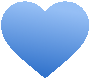
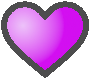
V3

diff --git a/src/RootViewControllerPlaylist.mm b/src/RootViewControllerPlaylist.mm
@@ -5,6 +5,7 @@
 //  Created by Yohann Magnien on 04/06/10.
 //  Copyright __YoyoFR / Yohann Magnien__ 2010. All rights reserved.
 //
+#define RATING_IMG(a) ( (a==5?2:(a?1:0)) )
 
 #define PRI_SEC_ACTIONS_IMAGE_SIZE 40
 #define ROW_HEIGHT 40
@@ -431,8 +432,8 @@ int qsort_ComparePlaylistEntriesRev(const void *entryA, const void *entryB) {
 	mShowSubdir=0;
 	
     ratingImg[0] = @"heart-empty.png";
-    ratingImg[1] = @"heart-filled.png"; //rating5.png";
-	
+    ratingImg[1] = @"heart-half-filled.png";
+    ratingImg[2] = @"heart-filled.png";
 	/* Init popup view*/
 	/**/
 	
@@ -1897,7 +1898,7 @@ int qsort_ComparePlaylistEntriesRev(const void *entryA, const void *entryB) {
         if (err==SQLITE_OK){
         } else NSLog(@"ErrSQL : %d",err);
         
-            sprintf(sqlStatement,"SELECT name,fullpath,rating,play_count,length,channels,songs FROM user_stats WHERE rating>0 ORDER BY rating DESC,name");
+            sprintf(sqlStatement,"SELECT name,fullpath,rating,play_count,length,channels,songs FROM user_stats WHERE rating=5 ORDER BY rating DESC,name");
             err=sqlite3_prepare_v2(db, sqlStatement, -1, &stmt, NULL);
             if (err==SQLITE_OK){
                 while (sqlite3_step(stmt) == SQLITE_ROW) {
@@ -2536,7 +2537,7 @@ int qsort_ComparePlaylistEntriesRev(const void *entryA, const void *entryB) {
                     }
                 }
 
-                if (playlist->entries[row-2].ratings>0) bottomImageView.image=[UIImage imageNamed:ratingImg[(playlist->entries[row-2].ratings?1:0)]];
+                if (playlist->entries[row-2].ratings>0) bottomImageView.image=[UIImage imageNamed:ratingImg[RATING_IMG(playlist->entries[row-2].ratings)]];
                 NSArray *filename_parts=[playlist->entries[row-2].fullpath componentsSeparatedByString:@"/"];
                 
                 NSString *tmp_str;
@@ -2580,8 +2581,6 @@ int qsort_ComparePlaylistEntriesRev(const void *entryA, const void *entryB) {
                                            0,
                                            tabView.bounds.size.width -1.0 * cell.indentationWidth- 32-PRI_SEC_ACTIONS_IMAGE_SIZE-4-PRI_SEC_ACTIONS_IMAGE_SIZE,
                                            22);
-                
-                
                 
                 [secActionView setImage:[UIImage imageNamed:@"playlist_add_all.png"] forState:UIControlStateNormal];
                 [secActionView setImage:[UIImage imageNamed:@"playlist_add_all.png"] forState:UIControlStateHighlighted];
@@ -2644,7 +2643,7 @@ int qsort_ComparePlaylistEntriesRev(const void *entryA, const void *entryB) {
                                                     &cur_local_entries[indexPath.section-2][indexPath.row].playcount,
                                                     &cur_local_entries[indexPath.section-2][indexPath.row].rating);
                     }
-                    if (cur_local_entries[indexPath.section-2][indexPath.row].rating>0) bottomImageView.image=[UIImage imageNamed:ratingImg[(cur_local_entries[indexPath.section-2][indexPath.row].rating?1:0)]];
+                    if (cur_local_entries[indexPath.section-2][indexPath.row].rating>0) bottomImageView.image=[UIImage imageNamed:ratingImg[RATING_IMG(cur_local_entries[indexPath.section-2][indexPath.row].rating)]];
                     tmp_str = [NSString stringWithFormat:@"Pl:%d",cur_local_entries[indexPath.section-2][indexPath.row].playcount];
                     
                     bottomLabel.frame = CGRectMake( 1.0 * cell.indentationWidth+20,

diff --git a/src/RootViewControllerASMA.mm b/src/RootViewControllerASMA.mm
@@ -6,6 +6,9 @@
 //  Copyright __YoyoFR / Yohann Magnien__ 2010. All rights reserved.
 //
 
+#define RATING_IMG(a) ( (a==5?2:(a?1:0)) )
+
+
 #define GET_NB_ENTRIES 1
 //#define NB_ASMA_ENTRIES 4630
 
@@ -170,7 +173,8 @@ extern volatile t_settings settings[MAX_SETTINGS];
     mFileMngr=[[NSFileManager alloc] init];
     
     ratingImg[0] = @"heart-empty.png";
-    ratingImg[1] = @"heart-filled.png"; //rating5.png";
+    ratingImg[1] = @"heart-half-filled.png";
+    ratingImg[2] = @"heart-filled.png";
     
     /* Init popup view*/
     /**/
@@ -1403,7 +1407,7 @@ extern volatile t_settings settings[MAX_SETTINGS];
                                                     &cur_db_entries[section][indexPath.row].channels_nb,
                                                     &cur_db_entries[section][indexPath.row].songs);
                     }
-                    if (cur_db_entries[section][indexPath.row].rating>0) bottomImageView.image=[UIImage imageNamed:ratingImg[(cur_db_entries[section][indexPath.row].rating?1:0)]];
+                    if (cur_db_entries[section][indexPath.row].rating>0) bottomImageView.image=[UIImage imageNamed:ratingImg[RATING_IMG(cur_db_entries[section][indexPath.row].rating)]];
                     
                     /*if (!cur_db_entries[section][indexPath.row].playcount) bottomLabel.text = [NSString stringWithString:played0time];
                      else if (cur_db_entries[section][indexPath.row].playcount==1) bottomLabel.text = [NSString stringWithString:played1time];

diff --git a/src/RootViewControllerHVSC.mm b/src/RootViewControllerHVSC.mm
@@ -5,6 +5,7 @@
 //  Created by Yohann Magnien on 04/06/10.
 //  Copyright __YoyoFR / Yohann Magnien__ 2010. All rights reserved.
 //
+#define RATING_IMG(a) ( (a==5?2:(a?1:0)) )
 
 #define GET_NB_ENTRIES 1
 #define NB_HVSC_ENTRIES 43856
@@ -174,7 +175,8 @@ extern volatile t_settings settings[MAX_SETTINGS];
 	
 	
     ratingImg[0] = @"heart-empty.png";
-    ratingImg[1] = @"heart-filled.png"; //rating5.png";
+    ratingImg[1] = @"heart-half-filled.png";
+    ratingImg[2] = @"heart-filled.png";
 	
 	/* Init popup view*/
 	/**/
@@ -1662,7 +1664,7 @@ extern volatile t_settings settings[MAX_SETTINGS];
                                                     &cur_db_entries[section][indexPath.row].channels_nb,
                                                     &cur_db_entries[section][indexPath.row].songs);
                     }
-                    if (cur_db_entries[section][indexPath.row].rating>0) bottomImageView.image=[UIImage imageNamed:ratingImg[(cur_db_entries[section][indexPath.row].rating?1:0)]];
+                    if (cur_db_entries[section][indexPath.row].rating>0) bottomImageView.image=[UIImage imageNamed:ratingImg[RATING_IMG(cur_db_entries[section][indexPath.row].rating)]];
                     
                     /*if (!cur_db_entries[section][indexPath.row].playcount) bottomLabel.text = [NSString stringWithString:played0time]; 
                      else if (cur_db_entries[section][indexPath.row].playcount==1) bottomLabel.text = [NSString stringWithString:played1time];

diff --git a/src/RootViewControllerMODLAND.mm b/src/RootViewControllerMODLAND.mm
@@ -5,6 +5,7 @@
 //  Created by Yohann Magnien on 04/06/10.
 //  Copyright __YoyoFR / Yohann Magnien__ 2010. All rights reserved.
 //
+#define RATING_IMG(a) ( (a==5?2:(a?1:0)) )
 
 #define GET_NB_ENTRIES 1
 
@@ -165,8 +166,8 @@ extern volatile t_settings settings[MAX_SETTINGS];
     mFileMngr=[[NSFileManager alloc] init];
 	
     ratingImg[0] = @"heart-empty.png";
-    ratingImg[1] = @"heart-filled.png"; //rating5.png";
-	
+    ratingImg[1] = @"heart-half-filled.png";
+    ratingImg[2] = @"heart-filled.png";
 	/* Init popup view*/
 	/**/
 	
@@ -2154,7 +2155,7 @@ extern volatile t_settings settings[MAX_SETTINGS];
                                                         &cur_db_entries[section][indexPath.row].songs);
                             
                         }
-                        if (cur_db_entries[section][indexPath.row].rating>0) bottomImageView.image=[UIImage imageNamed:ratingImg[(cur_db_entries[section][indexPath.row].rating?1:0)]];
+                        if (cur_db_entries[section][indexPath.row].rating>0) bottomImageView.image=[UIImage imageNamed:ratingImg[RATING_IMG(cur_db_entries[section][indexPath.row].rating)]];
                         
                         /*if (!cur_db_entries[section][indexPath.row].playcount) bottomLabel.text = [NSString stringWithString:played0time]; 
                          else if (cur_db_entries[section][indexPath.row].playcount==1) bottomLabel.text = [NSString stringWithString:played1time];

diff --git a/src/RootViewControllerLocalBrowser.mm b/src/RootViewControllerLocalBrowser.mm
@@ -6,6 +6,8 @@
 //  Copyright __YoyoFR / Yohann Magnien__ 2010. All rights reserved.
 //
 
+#define RATING_IMG(a) ( (a==5?2:(a?1:0)) )
+
 #define PRI_SEC_ACTIONS_IMAGE_SIZE 40
 #define LIMITED_LIST_SIZE 1024
 
@@ -521,7 +523,8 @@ int do_extract(unzFile uf,char *pathToExtract,NSString *pathBase);
     mShowSubdir=0;
     
     ratingImg[0] = @"heart-empty.png";
-    ratingImg[1] = @"heart-filled.png"; //rating5.png";
+    ratingImg[1] = @"heart-half-filled.png";
+    ratingImg[2] = @"heart-filled.png";
     
     //self.tableView.pagingEnabled;
     self.view.autoresizingMask = UIViewAutoresizingFlexibleWidth | UIViewAutoresizingFlexibleHeight;
@@ -2972,7 +2975,7 @@ static int shouldRestart=1;
                                             &cur_local_entries[section][indexPath.row].channels_nb,
                                             &cur_local_entries[section][indexPath.row].songs);
             }
-            if (cur_local_entries[section][indexPath.row].rating>0) bottomImageView.image=[UIImage imageNamed:ratingImg[(cur_local_entries[section][indexPath.row].rating?1:0)]];
+            if (cur_local_entries[section][indexPath.row].rating>0) bottomImageView.image=[UIImage imageNamed:ratingImg[RATING_IMG(cur_local_entries[section][indexPath.row].rating)]];
             
             NSString *bottomStr;
             int isMonoSong=cur_local_entries[section][indexPath.row].songs==1;

diff --git a/src/DBHelper.mm b/src/DBHelper.mm
@@ -521,13 +521,19 @@ void DBHelper::updateFileStatsAvgRatingDBmod(NSString *fullpath) {
                     if (tmp_rating<0) tmp_rating=0;
                     if (tmp_rating>5) tmp_rating=5;
                     avg_rating+=tmp_rating;
-                    if (tmp_rating>0) entries_nb++;
+                    //if (tmp_rating>0)
+                    entries_nb++;
                 } else {
                     //printf("skipping: %s\n",tmp_fullpath);
                     playcount=(short int)sqlite3_column_int(stmt, 1);
                 }
             }
-            if (entries_nb) avg_rating=avg_rating/entries_nb;
+            if (entries_nb) {
+                if (avg_rating>0) {
+                    avg_rating=avg_rating/entries_nb;
+                    if (avg_rating==0) avg_rating=1;
+                }
+            }
             sqlite3_finalize(stmt);
         } else NSLog(@"ErrSQL : %d",err);
         

diff --git a/src/DetailViewControllerIphone.mm b/src/DetailViewControllerIphone.mm
@@ -4516,8 +4516,9 @@ void fxRadial(int fxtype,int _ww,int _hh,short int *spectrumDataL,short int *spe
     
 	/**/
 	
-	ratingImg[0] = @"heart-empty.png";
-    ratingImg[1] = @"heart-filled.png"; //rating5.png";
+    ratingImg[0] = @"heart-empty.png";
+    ratingImg[1] = @"heart-half-filled.png";
+    ratingImg[2] = @"heart-filled.png";
 	
 	for (int i=0;i<3;i++) viewTapInfoStr[i]=NULL;
 	

diff --git a/src/RootViewControllerLocalBrowser.h b/src/RootViewControllerLocalBrowser.h
@@ -23,7 +23,7 @@
 @class DetailViewControllerIphone;
 
 @interface RootViewControllerLocalBrowser : UIViewController <UISearchBarDelegate,UIGestureRecognizerDelegate,CMPopTipViewDelegate,SESlideTableViewCellDelegate,UINavigationControllerDelegate> {
-	NSString *ratingImg[2];
+	NSString *ratingImg[3];
 	UIView *infoMsgView;
 	UILabel *infoMsgLbl;
     NSFileManager *mFileMngr;

diff --git a/src/RootViewControllerPlaylist.h b/src/RootViewControllerPlaylist.h
@@ -20,7 +20,7 @@
 @class DetailViewControllerIphone;
 
 @interface RootViewControllerPlaylist : UIViewController <UINavigationControllerDelegate,UISearchBarDelegate,UIActionSheetDelegate,UIGestureRecognizerDelegate,CMPopTipViewDelegate,SESlideTableViewCellDelegate> {
-	NSString *ratingImg[2];
+	NSString *ratingImg[3];
 	UIView *infoMsgView;
 	UILabel *infoMsgLbl;
     

diff --git a/src/RootViewControllerMODLAND.h b/src/RootViewControllerMODLAND.h
@@ -18,7 +18,7 @@
 #import "WaitingView.h"
 
 @interface RootViewControllerMODLAND : UIViewController <UINavigationControllerDelegate,UISearchBarDelegate,UIGestureRecognizerDelegate,CMPopTipViewDelegate> {
-	NSString *ratingImg[2];
+	NSString *ratingImg[3];
 	UIView *infoMsgView;
 	UILabel *infoMsgLbl;
     

diff --git a/src/RootViewControllerASMA.h b/src/RootViewControllerASMA.h
@@ -20,7 +20,7 @@
 
 
 @interface RootViewControllerASMA : UIViewController <UINavigationControllerDelegate,UISearchBarDelegate,UIGestureRecognizerDelegate,CMPopTipViewDelegate> {
-	NSString *ratingImg[2];
+	NSString *ratingImg[3];
 	UIView *infoMsgView;
 	UILabel *infoMsgLbl;
     

diff --git a/src/RootViewControllerHVSC.h b/src/RootViewControllerHVSC.h
@@ -20,7 +20,7 @@
 
 
 @interface RootViewControllerHVSC : UIViewController <UINavigationControllerDelegate,UISearchBarDelegate,UIGestureRecognizerDelegate,CMPopTipViewDelegate> {
-	NSString *ratingImg[2];
+	NSString *ratingImg[3];
 	UIView *infoMsgView;
 	UILabel *infoMsgLbl;
 	
